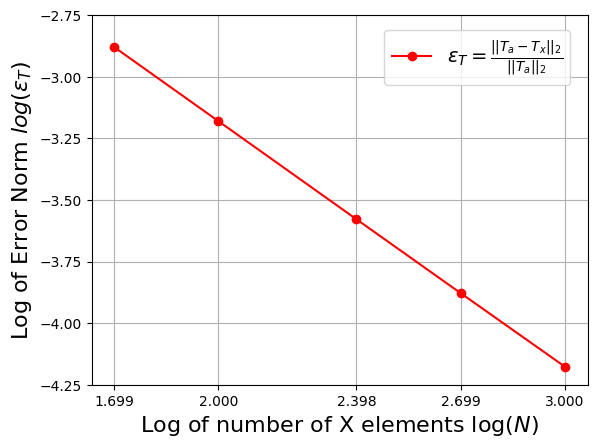
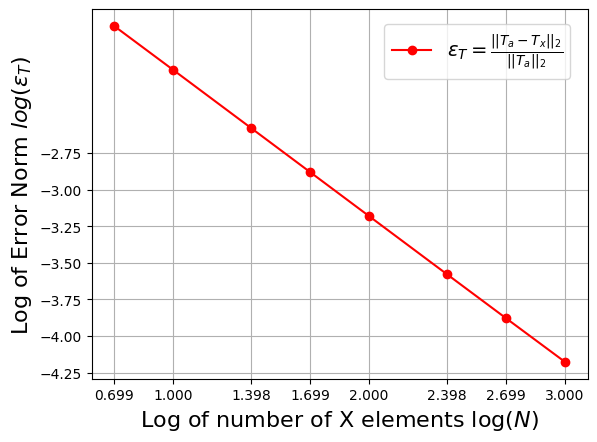
visualized temperature for coarse cases, as well as all on one plot. temp error norm looks great. visualize flux from restarts

diff --git a/simulations/visualization/more_active_batches/viz.py b/simulations/visualization/more_active_batches/viz.py
@@ -9,7 +9,7 @@ import pandas as pd
 import scipy.stats as stats
 
 # list mesh element sizes that will be used to iterate through all cases
-n_elems = np.array([50,100,250,500,1000])
+n_elems = np.array([5,10,25,50,100,250,500,1000])
 log_N = np.log10(n_elems)
 L = 106.47 # equilibrium length from paper
 P = 1.0e22 # eV/s
@@ -31,6 +31,7 @@ for n in n_elems:
     xx[n] = pd.read_csv(f"openmc_{n}_temp.csv").loc[:,"x"]
     temps[n] = pd.read_csv(f"openmc_{n}_temp.csv").loc[:,"temp"]
     cardinal_fluxes[n] = pd.read_csv(f"openmc_{n}_flux.csv").loc[:,"flux"]
+# ones = np.ones(len(xx[1000]))
 ones = np.ones(len(xx[1000]))
 
 # plot 50 mesh element temperature
@@ -89,6 +90,46 @@ plt.xticks([-60,-40,-20,0,20,40,60])
 dict_min = min(i for v in ratios_temp_num_to_analy.values() for i in v)
 dict_max = max(i for v in ratios_temp_num_to_analy.values() for i in v)
 # plt.yticks(np.linspace(dict_min,dict_max,8))
+plt.yticks([0.995,0.999,0.9995,1.0,1.005])
+plt.xlabel("X Coordinate [cm]",fontsize=16)
+plt.ylabel(r"Temperature C/E",fontsize=16)
+plt.gca().yaxis.tick_right()
+plt.gca().yaxis.set_major_formatter(mtick.FormatStrFormatter('%.3f'))
+plt.yticks()
+# plt.title(f"Ratio Numerical to Analytical Temp All Meshes. 200 Picard Iterations")
+plt.legend(ncol=2)
+plt.grid()
+plt.savefig("temp_num_to_analy_ratios.png",bbox_inches='tight')
+plt.clf()
+
+# COARSE TEMP C/E
+for n in [5,10,25,50]:
+    plt.plot(xx[n],ratios_temp_num_to_analy[n],label=f"{n} x-elem")
+plt.plot(xx[1000],ones,'k',label="exact")
+plt.xticks([-60,-40,-20,0,20,40,60])
+dict_min = min(i for v in ratios_temp_num_to_analy.values() for i in v)
+dict_max = max(i for v in ratios_temp_num_to_analy.values() for i in v)
+# plt.yticks(np.linspace(dict_min,dict_max,8))
+plt.yticks([0.995,0.996,0.997,0.998,0.999,1,1.0005])
+plt.xlabel("X Coordinate [cm]",fontsize=16)
+plt.ylabel(r"Temperature C/E",fontsize=16)
+plt.gca().yaxis.tick_right()
+plt.gca().yaxis.set_major_formatter(mtick.FormatStrFormatter('%.4f'))
+plt.yticks()
+# plt.title(f"Ratio Numerical to Analytical Temp All Meshes. 200 Picard Iterations")
+plt.legend(ncol=2)
+plt.grid()
+plt.savefig("coarse_temp_num_to_analy_ratios.png",bbox_inches='tight')
+plt.clf()
+
+# FINE TEMP C/E
+for n in [50,100,250,500,1000]:
+    plt.plot(xx[n],ratios_temp_num_to_analy[n],label=f"{n} x-elem")
+plt.plot(xx[1000],ones,'k',label="exact")
+plt.xticks([-60,-40,-20,0,20,40,60])
+dict_min = min(i for v in ratios_temp_num_to_analy.values() for i in v)
+dict_max = max(i for v in ratios_temp_num_to_analy.values() for i in v)
+# plt.yticks(np.linspace(dict_min,dict_max,8))
 plt.yticks([0.99994,0.99995,0.99996,0.99997,0.99998,0.99999,1,1.00001,1.00002])
 plt.xlabel("X Coordinate [cm]",fontsize=16)
 plt.ylabel(r"Temperature C/E",fontsize=16)
@@ -98,11 +139,12 @@ plt.yticks()
 # plt.title(f"Ratio Numerical to Analytical Temp All Meshes. 200 Picard Iterations")
 plt.legend(ncol=2)
 plt.grid()
-plt.savefig("temp_num_to_analy_ratios.png",bbox_inches='tight')
+plt.savefig("fine_temp_num_to_analy_ratios.png",bbox_inches='tight')
 plt.clf()
 
+# flux error norms NO RESTART - TODO decide whether to delete this part and only visualize flux from reviz
 # plot all flux C/E on one plot
-for n in n_elems:
+for n in [50,100,250,500,1000]:
     plt.plot(xx[n],ratios_flux_num_to_analy[n],label=f"{n} x-elem")
 plt.plot(xx[n],ones,'-k',label="exact")
 plt.xticks([-60,-40,-20,0,20,40,60])
